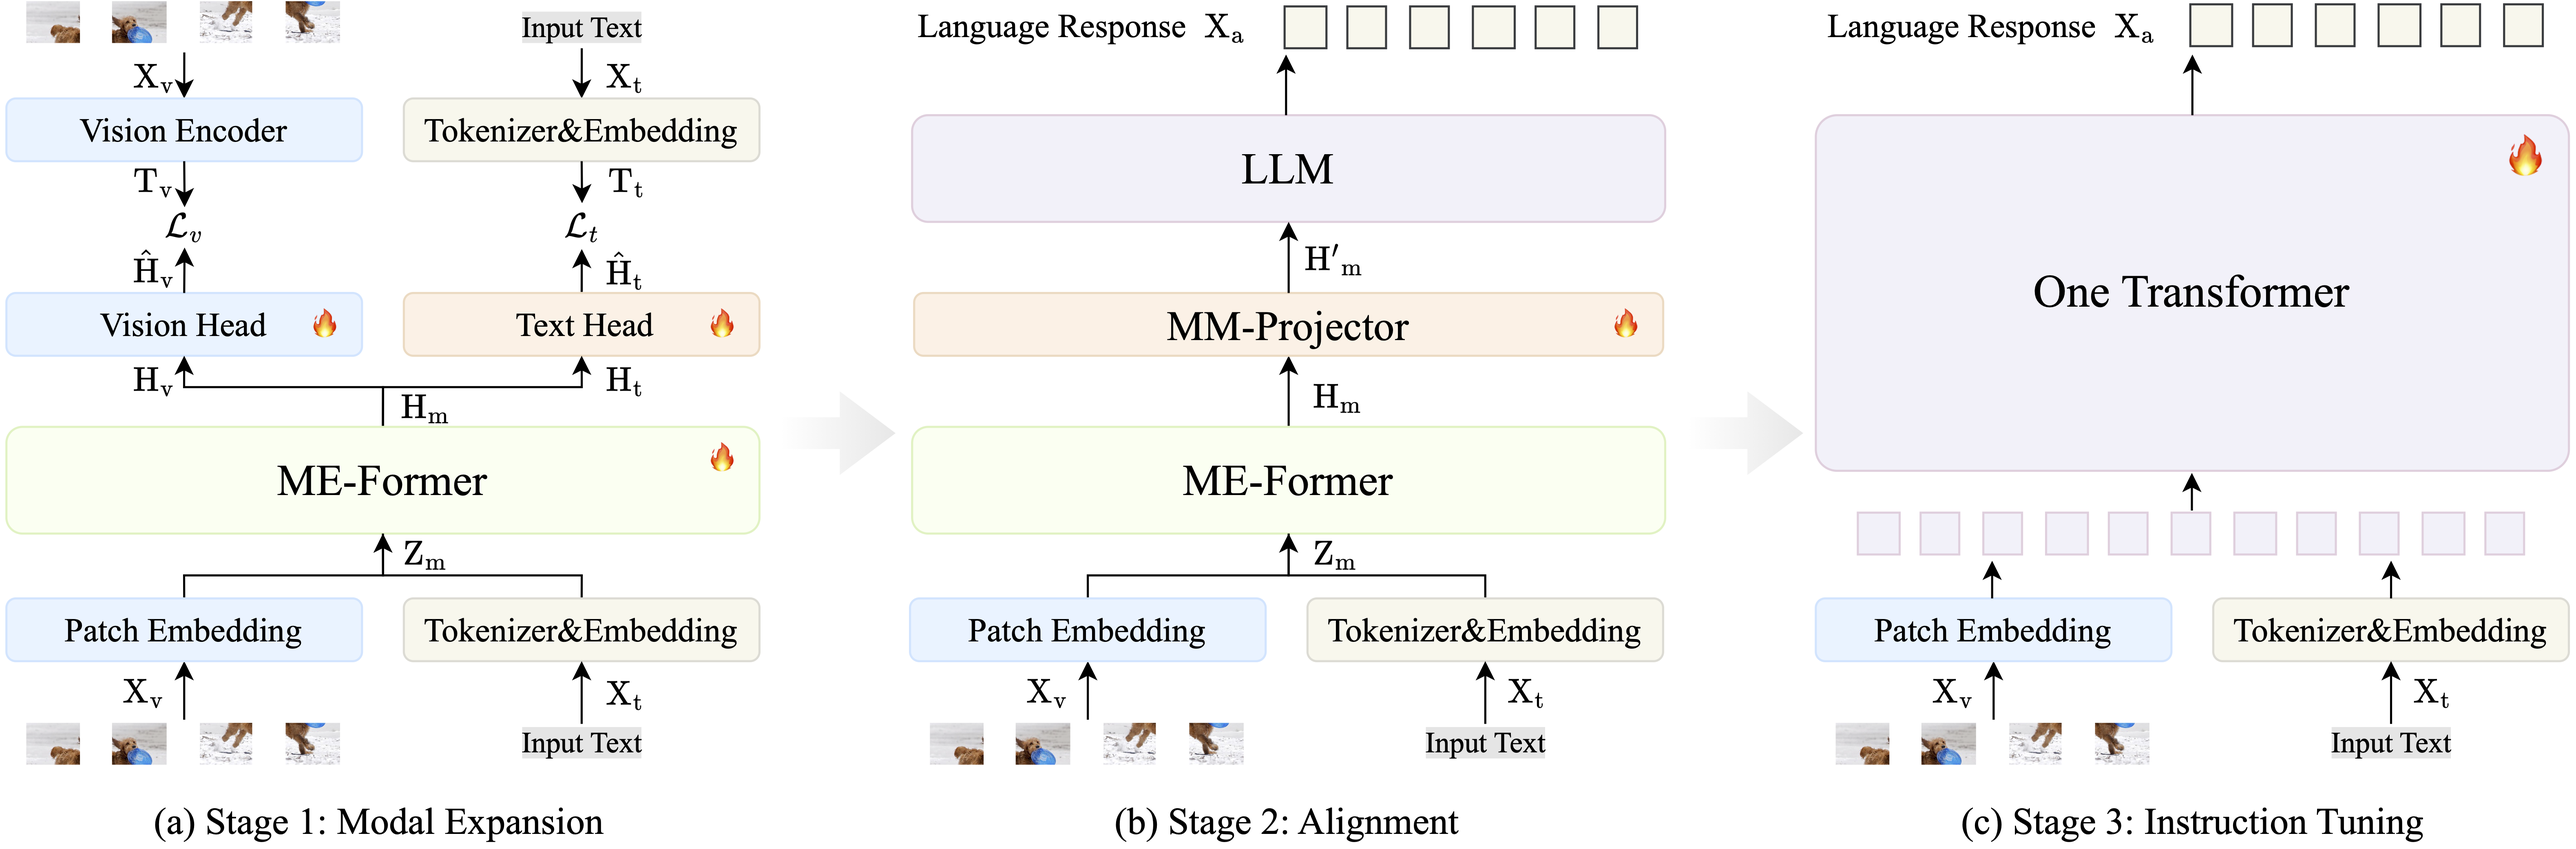
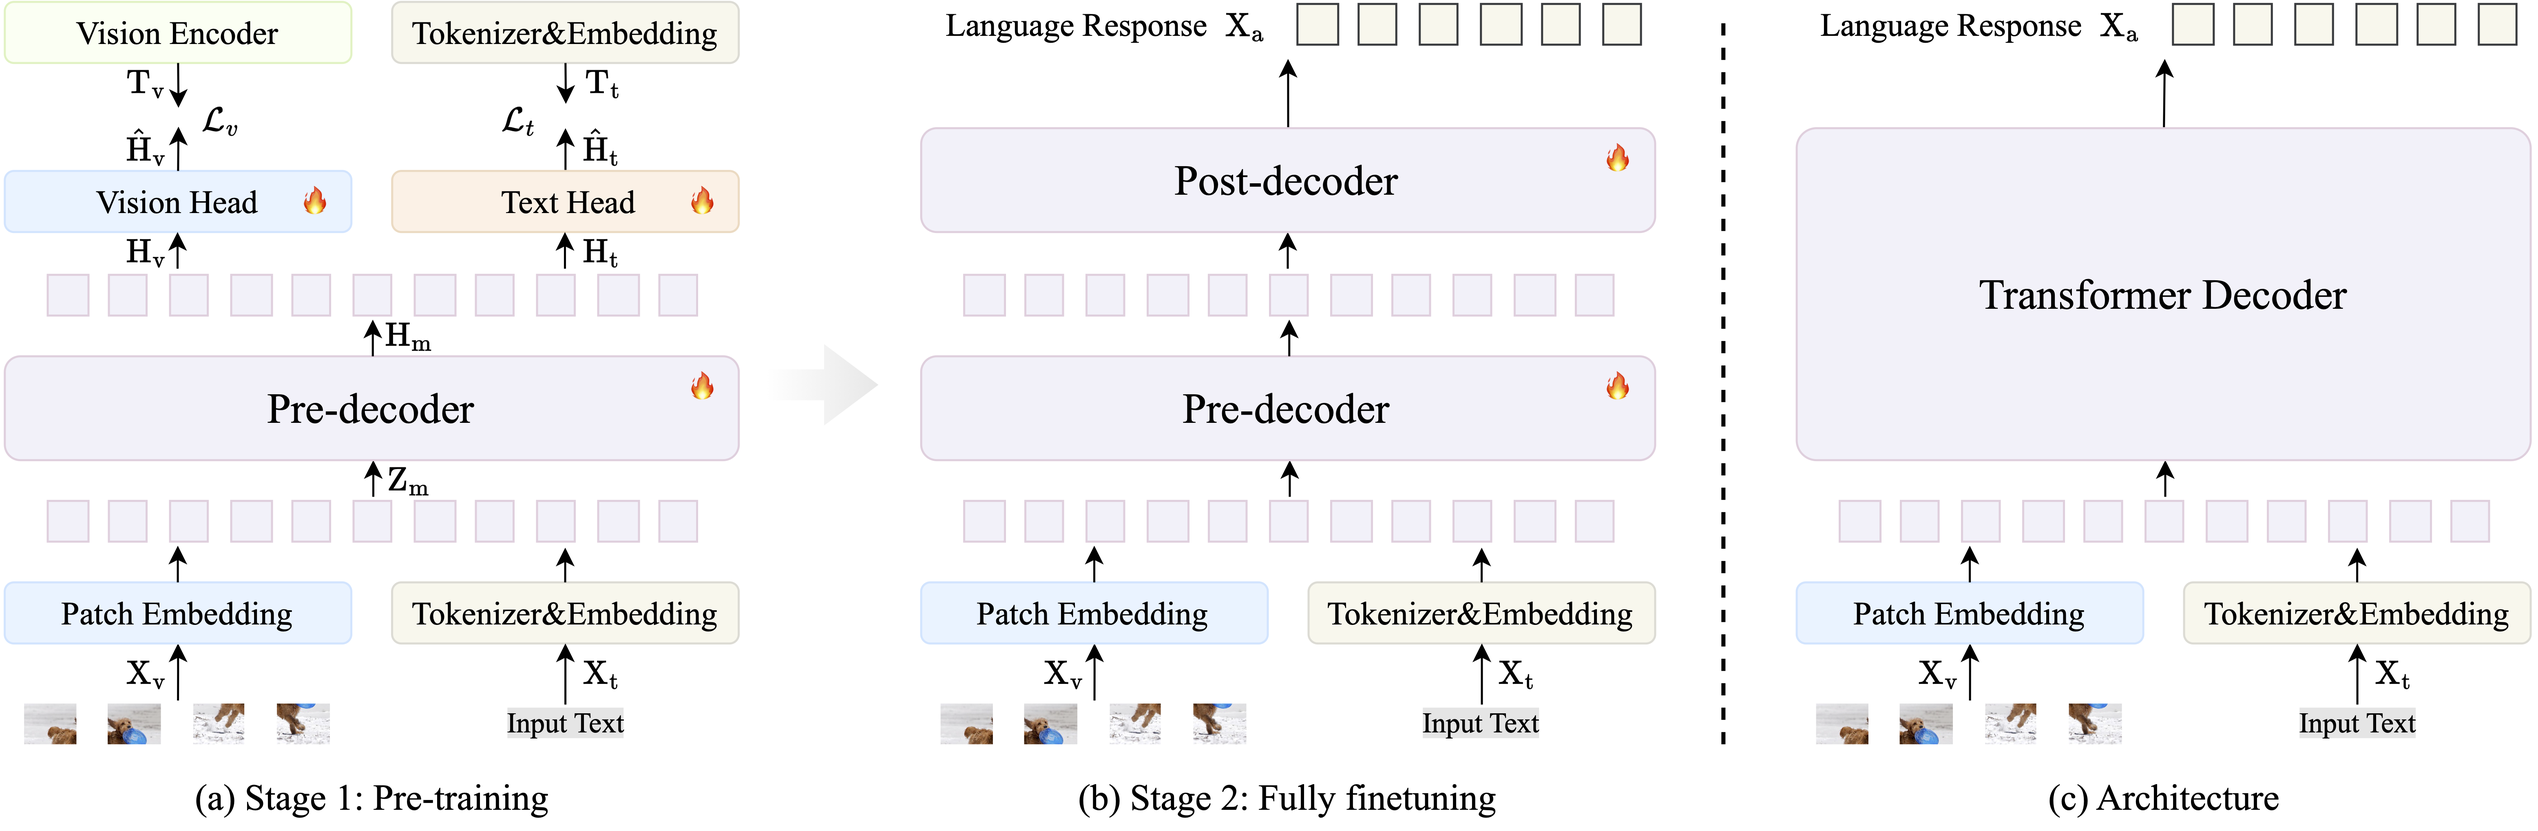
update

diff --git a/index.html b/index.html
@@ -23,7 +23,7 @@
   <meta name="keywords" content="KEYWORDS SHOULD BE PLACED HERE">
   <meta name="viewport" content="width=device-width, initial-scale=1">
 
-  <title>Haplo: A Single-Transformer Baseline for Multi-Modal Understandinge</title>
+  <title>HaploVL: A Single-Transformer Baseline for Multi-Modal Understandinge</title>
   <link rel="icon" type="image/x-icon" href="static/images/bot.png">
   <link href="https://fonts.googleapis.com/css?family=Google+Sans|Noto+Sans|Castoro"
   rel="stylesheet">
@@ -51,7 +51,7 @@
       <div class="container is-max-desktop">
         <div class="columns is-centered">
           <div class="column has-text-centered">
-            <h1 class="title is-1 publication-title">Haplo: A Single-Transformer Baseline for Multi-Modal Understanding</h1>
+            <h1 class="title is-1 publication-title">HaploVL: A Single-Transformer Baseline for Multi-Modal Understanding</h1>
             <div class="is-size-5 publication-authors">
               <!-- Paper authors -->
               <span class="author-block">
@@ -70,18 +70,12 @@
                     <span class="author-block"><b style="color:#008AD7; font-weight:normal">&#x25B6 </b> ARC Lab, Tencent</span>
                     <span class="author-block"><b style="color:#b249f8; font-weight:normal">&#x25B6 </b> Tsinghua University</span>
                   </div>
-
-                  <!-- <div class="is-size-5 publication-authors">
-                    <span class="author-block">The University of Hong Kong</span>
-                    <span class="author-block">ARC Lab, Tencent</span>
-                    <span class="eql-cntrb"><small><br><sup>✉</sup>Indicates Corresponding Authors</small></span>
-                  </div> -->
-
+                  
                   <div class="column has-text-centered">
                     <div class="publication-links">
                 <!-- ArXiv abstract Link -->
                 <span class="link-block">
-                  <a href="https://arxiv.org/abs/<ARXIV PAPER ID>" target="_blank"
+                  <a href="https://github.com/Tencent/HaploVLM/blob/main/assets/HaploVL.pdf" target="_blank"
                   class="external-link button is-normal is-rounded is-dark">
                   <span class="icon">
                     <i class="ai ai-arxiv"></i>
@@ -91,7 +85,7 @@
               </span>
                   <!-- Github link -->
                   <span class="link-block">
-                    <a href="https://github.com/YOUR REPO HERE" target="_blank"
+                    <a href="https://github.com/Tencent/HaploVLM" target="_blank"
                     class="external-link button is-normal is-rounded is-dark">
                     <span class="icon">
                       <i class="fab fa-github"></i>
@@ -101,7 +95,7 @@
                 </span>
                 <!-- Huggingface Link -->
                 <span class="link-block">
-                  <a href="https://huggingface.co/collections/rayruiyang/haplo-vl-678881793be07ac5fd67ad68" target="_blank"
+                  <a href="https://huggingface.co/collections/stevengrove/haplo-67d2582ac79d96983fa99697" target="_blank"
                   class="external-link button is-normal is-rounded is-dark">
                   <span class="icon">
                     🤗
@@ -153,13 +147,13 @@
           </p>
         </div>
         <!-- Subtitle: Three Stage Training -->
-        <h3 class="subtitle is-4" style="margin-top: 20px;">Three Stage Training:</h3>
+        <h3 class="subtitle is-4" style="margin-top: 20px;">Training Receipe:</h3>
 
         <!-- Image section -->
         <div class="has-text-centered" style="margin-top: 20px;">
           <img src="static/images/train-pipeline.png" alt="Method Illustration" style="max-width: 100%; height: auto;">
           <p class="is-italic" style="text-align: left; margin-top: 10px;">
-            Figure 2: The training pipeline of our Haplo. ME-Former is the proposed multi-modal early fusion transformer that can input images and text at the same time. In the modal expansion stage (a), we train ME-Former by distilling from the pre-trained vision encoder and the text embedding of the LLM. In the alignment stage (b), we tune the multi-modal projector (MM-Projector) and freeze other components. The whole model is tuned in the instruction tuning stage (c).
+            Figure 2: The training pipeline of our HaploVL. During the pre-training stage (a), the pre-decoder is trained by distilling knowledge from the pre-trained vision encoder and the text embeddings of the LLM. Heads and teacher models are dropped after pre-training. In the full fine-tuning stage (b), the entire model is fine-tuned using visual instruction data.
           </p>
         </div>
 
@@ -189,7 +183,7 @@
 
         <!-- Image section -->
         <div class="has-text-centered" style="margin-top: 20px;">
-          <img src="static/images/results/main_results.png" alt="Main results" style="max-width: 100%; height: auto;">
+          <img src="static/images/results/main-results.png" alt="Main results" style="max-width: 100%; height: auto;">
           <p class="is-italic" style="text-align: left; margin-top: 10px;">
             Table 1: Comparison on multi-modal benchmarks. `*' denotes images of related training datasets are observed during training. Haplo-8B-MI is the model further fine-tuned on multi-image datasets.
           </p>
@@ -203,7 +197,7 @@
 
         <!-- Image section -->
         <div class="has-text-centered" style="margin-top: 20px;">
-          <img src="static/images/results/ablation_study_1.png" alt="ablation study" style="max-width: 50%; height: auto;">
+          <img src="static/images/results/ablation_study_1.png" alt="ablation study" style="max-width: 40%; height: auto;">
           <p class="is-italic" style="text-align: left; margin-top: 10px;">
             Table 2: Ablation for different LLMs, resolution (Res.), and visual instruction data (Data-S3). `*' denotes that images from training datasets are used during training.
           </p>
@@ -216,23 +210,23 @@
         </div>
 
         <!-- Subtitle: ablation 2 -->
-        <h3 class="subtitle is-5" style="margin-top: 20px;">Ablation for modal expansion stage (stage 1):</h3>
+        <h3 class="subtitle is-5" style="margin-top: 20px;">Ablation for pretraining stage (stage 1):</h3>
 
         <div class="has-text-centered" style="margin-top: 20px;">
           <img src="static/images/results/ablation_study_2.png" alt="ablation study" style="max-width: 80%; height: auto;">
           <p class="is-italic" style="text-align: left; margin-top: 10px;">
-            Table 3: Ablation for modal expansion stage.
+            Table 3: Ablation for pretraining stage.
           </p>
         </div>
 
         <div class="content">
-          <ul>🌟 <span style="background-color: #e2f4ff;">Modal expansion stage accelerates the convergence process.</span></ul>
+          <ul>🌟 <span style="background-color: #e2f4ff;">pretraining stage accelerates the convergence process.</span></ul>
         </div>
 
         <!-- Subtitle: ablation 3 -->
         <h3 class="subtitle is-5" style="margin-top: 20px;">Compared with the compositional LMM using the same LLM and training data:</h3>
 
-        <div class="columns">
+        <!-- <div class="columns">
           <div class="column">
             <img src="static/images/results/ablation_3_1.png" alt="Image 1" style="width: 100%; height: auto;">
             <p class="is-italic" style="text-align: left; margin-top: 10px;">
@@ -245,7 +239,16 @@
               Table 5: Comparison with LLaVA-1.5-7B on MMStar. CP: coarse perception, FP: fine-grained perception, IR: instance reasoning, LR: logical reasoning, ST: science and technology, and MA: mathematics.
             </p>
           </div>
+        </div> -->
+
+        <!-- Image section -->
+        <div class="has-text-centered" style="margin-top: 20px;">
+          <img src="static/images/results/ablation_study_3.png" alt="ablation study" style="max-width: 40%; height: auto;">
+          <p class="is-italic" style="text-align: left; margin-top: 10px;">
+            Table 4: Comparison with LLaVA-1.5-7B on MMVP and MMStar. CP: coarse perception, FP: fine-grained perception, IR: instance reasoning, LR: logical reasoning, ST: science and technology, and MA: mathematics.
+          </p>
         </div>
+
 
         <div class="has-text-centered" style="margin-top: 20px;">
           <img src="static/images/results/case_study.jpg" alt="case study" style="max-width: 100%; height: auto;">
@@ -257,6 +260,14 @@
 
         <div class="content">
           <ul>🌟 <span style="background-color: #e2f4ff;">Early fusion of the textual and visual embeddings is beneficial for fine-grained perception.</span></ul>
+        </div>
+
+
+        <div class="has-text-centered" style="margin-top: 20px;">
+          <img src="static/images/attn_map.png" alt="attn map" style="max-width: 100%; height: auto;">
+          <p class="is-italic" style="text-align: left; margin-top: 10px;">
+            Figure 4: Visualization for the early fusion mechanism of our single transformer. The second row illustrates the attention map of the gray words concerning the vision embeddings after the pre-decoder.
+          </p>
         </div>
 
         <!-- Subtitle: Qualitative results -->
@@ -340,7 +351,14 @@
   <section class="section" id="BibTeX">
     <div class="container is-max-desktop content">
       <h2 class="title">BibTeX</h2>
-      <pre><code>BibTex Code Here</code></pre>
+      <pre><code>
+        @article{yang2024haplo,
+          title={HaploVL: A Single-Transformer Baseline for Multi-Modal Understanding},
+          author={Yang, Rui and Song, Lin and Xiao, Yicheng and Huang, Runhui and Ge, Yixiao and Shan, Ying and Zhao, Hengshuang},
+          journal={arXiv preprint arXiv:xxxx.xxxxx},
+          year={2025}
+        }
+      </code></pre>
     </div>
 </section>
 <!--End BibTex citation -->
